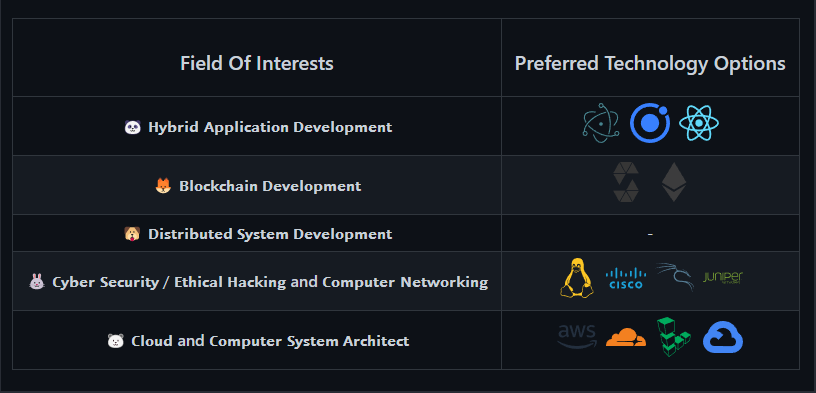
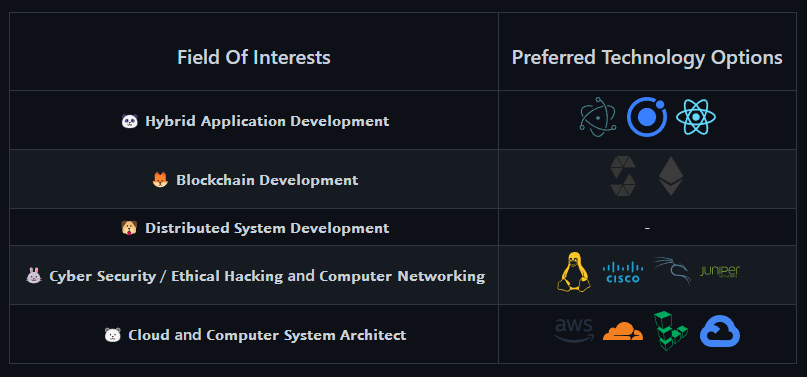
Interest Image Size Edited

diff --git a/README.md b/README.md
@@ -57,7 +57,7 @@
 <br>
 
 <div align="center" style="display: flex; align-items: center; margin:auto; justify-content:center; text-decoration: none;">
-    <a href="https://github.com/shreesharma07/shreesharma07/blob/production/Images/Skills/technological-skills.png" target="_blank"><img style="height:200px; width:auto; cursor: pointer; margin-top:15px;" src="https://github.com/shreesharma07/shreesharma07/blob/production/Images/Skills/technological-skills.png"></a>
+    <a href="https://github.com/shreesharma07/shreesharma07/blob/production/Images/Skills/technological-skills.png" target="_blank"><img style="height:200px; width:auto; cursor: pointer; margin-top:15px; border-radius:10px;" src="https://github.com/shreesharma07/shreesharma07/blob/production/Images/Skills/technological-skills.png"></a>
 </div>
 
 ---
